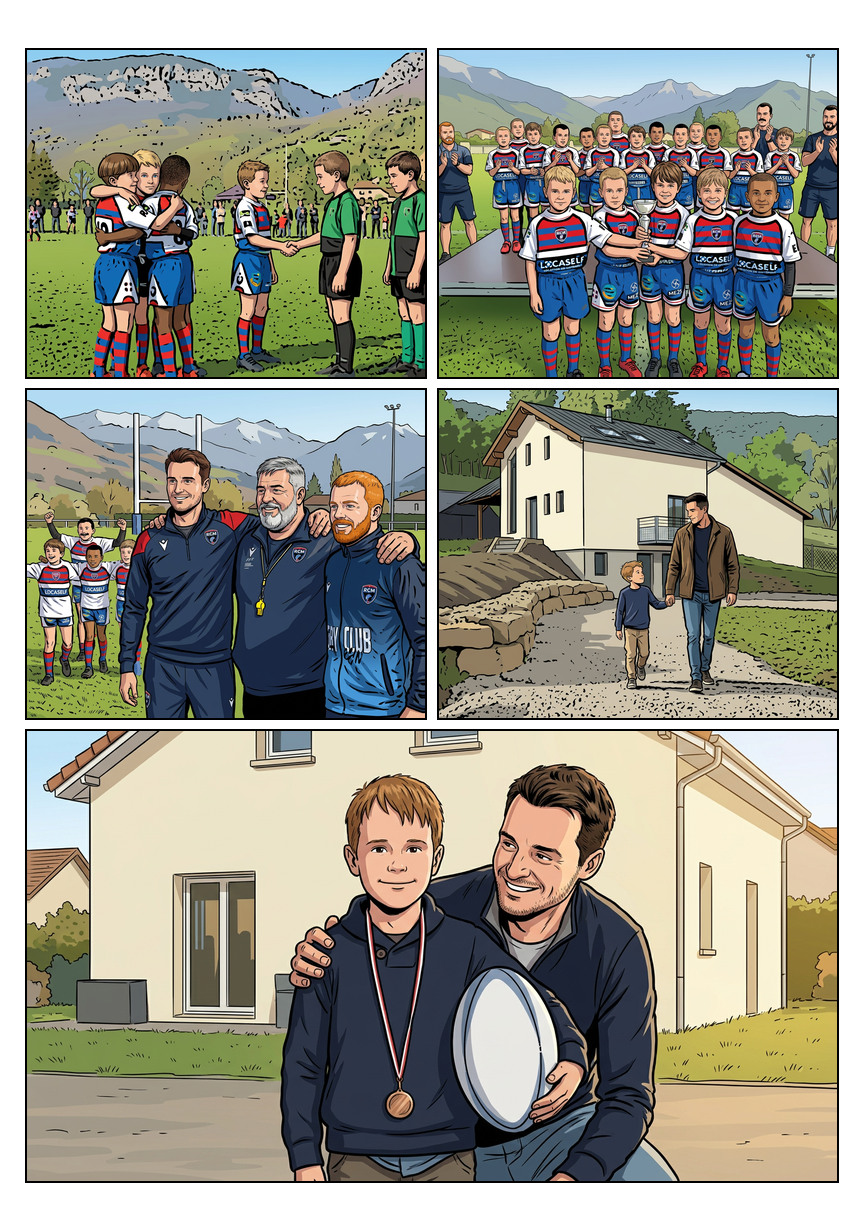
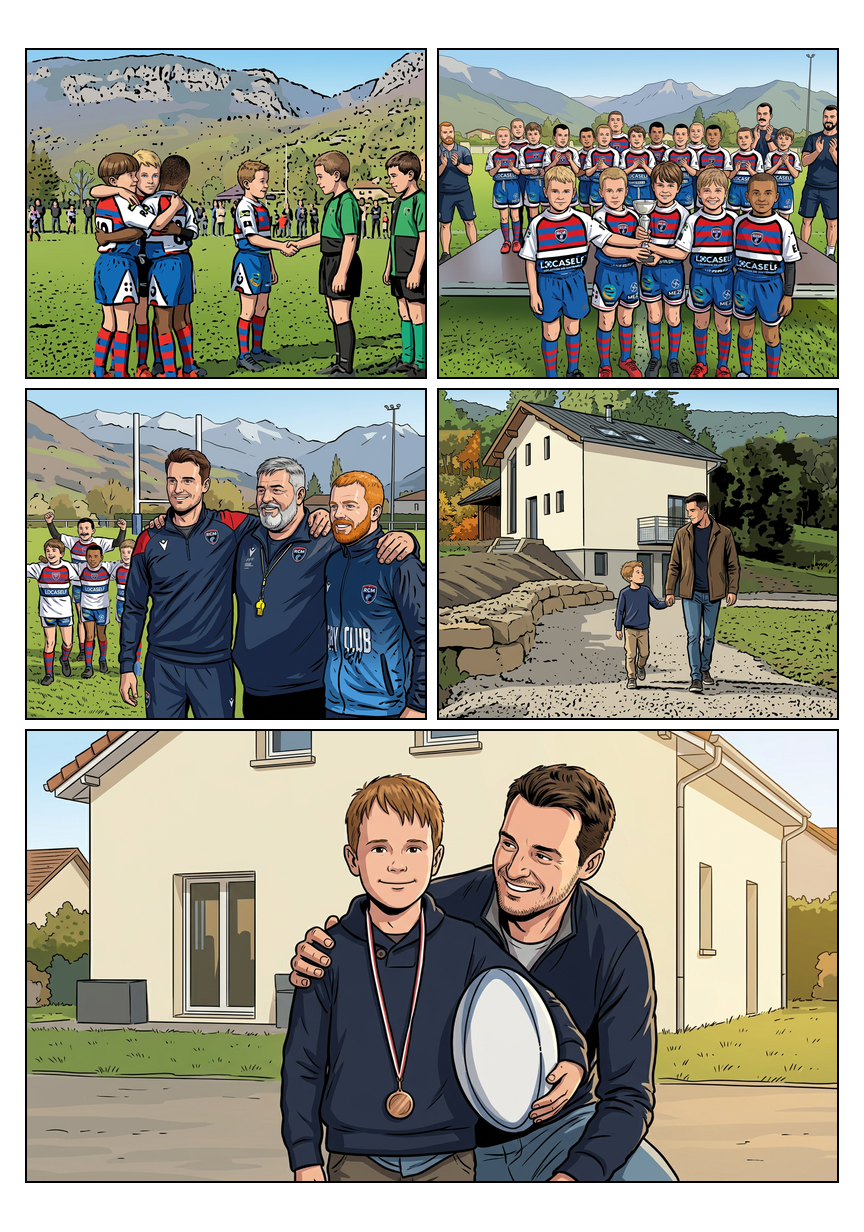
Correct invented house extensions in 30-4 and purple jersey drift in 27-3

Changed region(s): [[0.8125, 0.3393, 0.9688, 0.4935], [0.5, 0.3393, 0.5938, 0.4627]]

diff --git a/outils/retouche/verifier_audit5_23_30.py b/outils/retouche/verifier_audit5_23_30.py
@@ -1,0 +1,90 @@
+#!/usr/bin/env python3
+"""Localité/protections de l'audit 5 ; pas une certification artistique."""
+from io import BytesIO
+from pathlib import Path
+import hashlib
+import json
+import subprocess
+from PIL import Image, ImageChops
+
+ROOT = Path(__file__).resolve().parents[2]
+
+
+def previous(ref, path):
+    raw = subprocess.check_output(
+        ['git', 'show', f'{ref}:{path.relative_to(ROOT).as_posix()}'], cwd=ROOT)
+    return Image.open(BytesIO(raw)).convert('RGB')
+
+
+def main():
+    plan = json.loads((ROOT / 'Planches-dessin/validation/AUDIT5-23-30.json').read_text())
+    assert {(c['page'], c['vignette']) for c in plan['corrections']} == {(27, '27-3'), (30, '30-4')}
+    for n in range(31):
+        path = next((ROOT / 'Planches-dessin').glob(f'{n:02}-*.png'))
+        old, new = previous(plan['base'], path), Image.open(path).convert('RGB')
+        assert old.size == new.size, f'Dimensions : {n}'
+        changes = [c for c in plan['corrections'] if c['page'] == n]
+        diff = ImageChops.difference(old, new)
+        assert bool(diff.getbbox()) == bool(changes), f'Présence de retouche : {n}'
+        for c in changes:
+            box = tuple(c['rectangle'])
+            local = diff.crop(box)
+            mask = Image.open(ROOT / c['masque']).convert('L')
+            protected = Image.open(ROOT / c['protege']).convert('L')
+            assert mask.size == protected.size == local.size
+            assert ImageChops.multiply(mask, protected).getbbox() is None
+            assert Image.composite(local, Image.new('RGB', local.size), protected).getbbox() is None, c['vignette']
+            outside = mask.point(lambda v: 255 if v == 0 else 0)
+            diff.paste(Image.composite(local, Image.new('RGB', local.size), outside), box[:2])
+            if n == 27:
+                before, after = old.crop(box), new.crop(box)
+                # HSV V = max(R,G,B): exact preservation, not a brightness boost.
+                assert ImageChops.difference(before.convert('HSV').getchannel('V'), after.convert('HSV').getchannel('V')).getbbox() is None
+                regions = Image.open(ROOT / c['regions']).convert('L')
+                assert ImageChops.subtract(mask, regions).getbbox() is None
+                folder = (ROOT / c['masque']).parent
+                red = Image.open(folder / '27-3-rouge.png').convert('L')
+                blue = Image.open(folder / '27-3-bleu.png').convert('L')
+                assert ImageChops.lighter(red, blue).tobytes() == mask.tobytes()
+                assert red.histogram()[255] == c['pixels_rouges'] > 0
+                assert blue.histogram()[255] == c['pixels_bleus'] > 0
+                hue = after.convert('HSV').getchannel('H')
+                bad_red = hue.point(lambda h: 255 if 2 < h < 249 else 0)
+                bad_blue = hue.point(lambda h: 255 if not 151 <= h <= 160 else 0)
+                assert ImageChops.multiply(red, bad_red).getbbox() is None
+                assert ImageChops.multiply(blue, bad_blue).getbbox() is None
+                # Face boxes are independent of the authored clothing color mask.
+                for face in [(198,156,211,169), (231,171,243,189), (287,170,300,184), (342,169,357,185)]:
+                    assert ImageChops.difference(before.crop(face), after.crop(face)).getbbox() is None
+                saturation = before.convert('HSV').getchannel('S')
+                whites = saturation.point(lambda v: 255 if v <= 90 else 0)
+                assert Image.composite(local, Image.new('RGB', local.size), whites).getbbox() is None
+            if n == 30:
+                before, after = old.crop(box), new.crop(box)
+                for keep in plan['protections_rectangles_locaux'] + [[244,102,270,139]]:
+                    assert ImageChops.difference(before.crop(tuple(keep)), after.crop(tuple(keep))).getbbox() is None, keep
+        assert diff.getbbox() is None, f'Changement hors zones/masques : {n}'
+        if not changes:
+            data = subprocess.check_output(
+                ['git', 'show', f'{plan["base"]}:{path.relative_to(ROOT).as_posix()}'], cwd=ROOT)
+            assert data == path.read_bytes(), f'Fichier non concerné réécrit : {n}'
+        print(f'OK {n:02} : dimensions, localité, protections, autres fichiers inchangés')
+    for e in plan['fichiers_apres']:
+        raw = (ROOT / e['fichier']).read_bytes()
+        assert len(raw) == e['octets'] and hashlib.sha256(raw).hexdigest() == e['sha256']
+        with Image.open(BytesIO(raw)) as im:
+            assert im.format == 'PNG' and list(im.size) == e['dimensions']
+            im.verify()
+    for g in plan['geometrie']:
+        w, h = g['native']
+        rw, rh = g['contenu']
+        assert abs(rw/w - rh/h) <= 1/min(w, h), g
+        x, y, tw, th = g['cadrage']
+        assert 0 <= x <= rw-tw and 0 <= y <= rh-th
+    print('OK : inventaire, géométrie uniforme, couleurs à V constant, visages et éléments conservés')
+    print('Réserves actuelles : ' + '; '.join(plan['a_reprendre']))
+    print('Pas de certification automatique des identités, de l’architecture ou du style.')
+
+
+if __name__ == '__main__':
+    main()

diff --git a/outils/retouche/verifier_audit4_23_30.py b/outils/retouche/verifier_audit4_23_30.py
@@ -5,6 +5,7 @@ from pathlib import Path
 import hashlib
 import json
 import subprocess
+import sys
 from PIL import Image, ImageChops
 
 ROOT = Path(__file__).resolve().parents[2]
@@ -18,11 +19,17 @@ def previous(ref, path):
 
 def main():
     plan = json.loads((ROOT / 'Planches-dessin/validation/AUDIT4-23-30.json').read_text())
+    fifth = ROOT / 'Planches-dessin/validation/AUDIT5-23-30.json'
+    historical = json.loads(fifth.read_text())['base'] if fifth.exists() else None
+    def delivered(path):
+        return previous(historical, path) if historical else Image.open(path).convert('RGB')
+    if historical:
+        print(f'Vérification historique quatrième passe : {historical}')
     assert [c['vignette'] for c in plan['corrections']] == ['24-5', '24-2']
     assert {c['page'] for c in plan['corrections']} == {24}
     for n in range(31):
         path = next((ROOT / 'Planches-dessin').glob(f'{n:02}-*.png'))
-        old, new = previous(plan['base'], path), Image.open(path).convert('RGB')
+        old, new = previous(plan['base'], path), delivered(path)
         assert old.size == new.size, f'Dimensions : {n}'
         changes = [c for c in plan['corrections'] if c['page'] == n]
         diff = ImageChops.difference(old, new)
@@ -41,10 +48,11 @@ def main():
         if not changes:
             data = subprocess.check_output(
                 ['git', 'show', f'{plan["base"]}:{path.relative_to(ROOT).as_posix()}'], cwd=ROOT)
-            assert data == path.read_bytes(), f'Fichier non concerné réécrit : {n}'
+            actual = subprocess.check_output(['git', 'show', f'{historical}:{path.relative_to(ROOT).as_posix()}'], cwd=ROOT) if historical else path.read_bytes()
+            assert data == actual, f'Fichier non concerné réécrit : {n}'
         print(f'OK {n:02} : dimensions, zones, protections et fichiers non concernés')
     for e in plan['fichiers_apres']:
-        data = (ROOT / e['fichier']).read_bytes()
+        data = subprocess.check_output(['git', 'show', f"{historical}:{e['fichier']}"], cwd=ROOT) if historical else (ROOT / e['fichier']).read_bytes()
         assert len(data) == e['octets'] and hashlib.sha256(data).hexdigest() == e['sha256']
         with Image.open(BytesIO(data)) as im:
             assert im.format == 'PNG' and list(im.size) == e['dimensions']
@@ -57,7 +65,7 @@ def main():
         assert 0 <= x <= rw-tw and 0 <= y <= rh-th
     path = next((ROOT / 'Planches-dessin').glob('24-*.png'))
     old = previous(plan['base'], path)
-    new = Image.open(path).convert('RGB')
+    new = delivered(path)
     # The upper scenery of 24/5 is deliberately not regenerated this time.
     box = (439, 836, 837, 1036)
     assert ImageChops.difference(old.crop(box), new.crop(box)).getbbox() is None
@@ -72,8 +80,11 @@ def main():
     local = ImageChops.difference(before, new.crop(box))
     assert Image.composite(local, Image.new('RGB', local.size), pale).getbbox() is None
     print('OK : inventaire, échelles uniformes, fond haut 24/5 et pixels clairs du chemin conservés')
-    print('Réserves actuelles : ' + '; '.join(plan['a_reprendre']))
+    print(('Réserves historiques de cette passe : ' if historical else 'Réserves actuelles : ') + '; '.join(plan['a_reprendre']))
     print('Ces tests ne certifient ni identité, ni anatomie, ni homogénéité graphique intégrale.')
+    if historical:
+        sys.stdout.flush()
+        subprocess.run([sys.executable, str(ROOT / 'outils/retouche/verifier_audit5_23_30.py')], check=True)
 
 
 if __name__ == '__main__':

diff --git a/outils/retouche/verifier_lot23_30.py b/outils/retouche/verifier_lot23_30.py
@@ -15,10 +15,10 @@ def main():
     assert [e['planche'] for e in report['fichiers']] == list(range(23, 31))
     # The initial manifest remains a historical inventory. After a local audit,
     # use its current delivery hashes rather than the superseded batch hashes.
-    audit4 = ROOT / 'Planches-dessin/validation/AUDIT4-23-30.json'
-    audit3 = ROOT / 'Planches-dessin/validation/AUDIT3-23-30.json'
-    audit2 = ROOT / 'Planches-dessin/validation/AUDIT2-23-30.json'
-    audit = audit4 if audit4.exists() else audit3 if audit3.exists() else audit2 if audit2.exists() else ROOT / 'Planches-dessin/validation/audit-23-30.json'
+    candidates = [ROOT / 'Planches-dessin/validation' / name for name in (
+        'AUDIT5-23-30.json', 'AUDIT4-23-30.json', 'AUDIT3-23-30.json',
+        'AUDIT2-23-30.json', 'audit-23-30.json')]
+    audit = next((path for path in candidates if path.exists()), candidates[-1])
     entries = json.loads(audit.read_text())['fichiers_apres'] if audit.exists() else report['fichiers']
     for entry in entries:
         data = (ROOT / entry['fichier']).read_bytes()

diff --git a/Planches-dessin/validation/AUDIT5-23-30.md b/Planches-dessin/validation/AUDIT5-23-30.md
@@ -1,0 +1,65 @@
+# Audit 23–30 — cinquième passe locale
+
+Base : `c2d5b46`. Contenu comparé aux originaux `e0416a5`. Référence graphique inchangée : témoin V2 approuvé, extraits sans visage déjà conservés dans `corrections-vignettes/audit23b/`.
+
+**Deux cases corrigées sur deux pages : 27/3 et 30/4. Les fichiers principaux 00–26, 28 et 29 restent identiques octet pour octet. Les autres cases de 27 et 30 sont conservées. Pas de validation globale de la BD.**
+
+## 30/4 — corriger l'emprise des constructions, pas refaire les visages
+
+La comparaison rapprochée à l'original précise la réserve architecturale des passes précédentes :
+
+1. La façade principale à pignon gauche et ses ouvertures étaient déjà proches de la source. Elle est conservée, plutôt que relancée intégralement.
+2. Une **grande extension basse à droite**, avec toiture descendante et mur blanc, avait été inventée. Elle n'existe pas dans l'original : **elle est retirée**, au profit du fond boisé et de la berge visible à cet endroit.
+3. Le **petit appentis de gauche** avait été agrandi en un long bâtiment gris allant jusqu'au bord de la case. Il est ramené à une petite toiture inclinée avec paroi de bois, d'après un recadrage de l'original.
+
+Deux propositions générées sont utilisées uniquement dans ces zones. Les nouveaux personnages, la nouvelle façade principale et le nouveau chemin de la proposition complète ne sont pas intégrés.
+
+### Protections du montage
+
+- Personnages existants protégés : pas de nouvelle tête, de nouveaux vêtements ou de nouveau geste de la main.
+- Façade principale, ouvertures et grande partie de la toiture conservées pixel à pixel ; bord du surplomb protégé séparément pour ne pas emporter la toiture correcte avec l'extension inventée.
+- Enfant entièrement hors des zones modifiées, visage du père conservé ; terrain, muret et chemin du bas de la case inchangés.
+- Les pixels du nouveau père qui dépasseraient de l'ancienne silhouette sont exclus de l'échantillonnage du décor. Une couleur de feuillage dessiné voisine est utilisée à leur place, sans importer de nouveau morceau de veste ni de bras.
+- Raccords limités au voisinage des constructions corrigées, sans étirement indépendant des axes.
+
+**L'écart volumétrique manifeste est corrigé.** Cela ne certifie pas chaque proportion, ouverture, tuile, branche ou détail de l'original. Le fond boisé est une restitution dessinée, pas une copie feuille par feuille.
+
+[Source / avant / après de la maison](AUDIT5-23-30-AVANT-APRES.jpg).
+
+## 27/3 — tenues violettes au lieu du rouge et bleu
+
+Le contrôle de la cérémonie sur le fichier source natif confirme des tenues RCM rouge/bleu/blanc. Dans la version dessinée, la poitrine de quatre enfants visibles — l'enfant debout derrière et les trois coureurs — avait dérivé vers le violet/prune ; certaines plages bleues tiraient aussi vers le violet.
+
+Correction **déterministe de teinte uniquement**, par zones de vêtements et seuils de couleur :
+
+- plages violettes de poitrine ramenées au rouge ;
+- plages bleues violacées ramenées au bleu ;
+- valeur HSV **V = max(R,G,B)** conservée exactement : pas de relumage global ;
+- parties blanches, pixels hors masques, visages, cheveux, silhouettes, poses, accessoires et décor conservés.
+
+Aucune génération de personnage ni nouvelle interprétation du motif. Les petits logos/lettrages restent ceux de la case existante ; ils ne sont pas annoncés identiques à la source.
+
+[Source / avant / après des couleurs de 27/3](AUDIT5-27-3-COULEURS.jpg).
+
+Cette correction ne remet pas en cause le contrôle de 28/6 : les manches rouges du troisième garçon y existent réellement dans l'original et restent intactes. Le comptage de 30/2 documenté à la troisième passe est également inchangé.
+
+## Réserves après cette passe
+
+- **30/4 :** la grande extension inventée est supprimée et le petit appentis est réduit ; détails et proportions architecturaux fins ne sont toujours pas certifiés exhaustivement.
+- Régions volontairement protégées de 23–30 : petites textures, raccords et finitions à examiner à grande échelle, sans prétendre qu'une reprise locale valide toute la page.
+- Identités/anatomies fines, petits figurants, logos et lettrages : réserves antérieures non levées en bloc. Aucune nouvelle génération de visage n'est faite pour une différence incertaine.
+
+## Pièces et contrôles
+
+- [Plan, masques, protections, géométrie et empreintes](AUDIT5-23-30.json).
+- Masques de décor, protection des personnages et régions de couleur : `corrections-vignettes/audit23e/`.
+
+```sh
+python outils/retouche/verifier_audit5_23_30.py
+python outils/retouche/verifier_audit23_30.py
+python outils/retouche/verifier_lot23_30.py
+```
+
+Le contrôle actuel vérifie les 31 fichiers principaux, les dimensions, les limites des deux retouches, les protections, les fichiers non concernés identiques, la valeur HSV constante de 27/3, des zones de visages/parties blanches indépendantes des masques d'édition, le bas de 30/4 et les empreintes de livraison. Les audits précédents restent vérifiés à leurs commits historiques, puis la chaîne lance le contrôle courant.
+
+**Les tests démontrent l'intégrité et la localité, pas l'identité des personnes, l'exactitude architecturale intégrale ou la conformité artistique de toute la BD.**

diff --git a/Planches-dessin/SUIVI-STYLE.md b/Planches-dessin/SUIVI-STYLE.md
@@ -225,3 +225,14 @@ Base `0532a10`. **Seule la page 24 est modifiée** ; 00–23 et 25–30 restent 
 Deux générations utilisées par masques, même témoin V2, échelle uniforme. Rapport courant : `validation/AUDIT4-23-30.md`, inventaire `AUDIT4-23-30.json`. Comparatif : `AUDIT4-23-30-AVANT-APRES.jpg` ; détail vérifié : `AUDIT4-28-6-MANCHES.jpg`. Vérificateur : `outils/retouche/verifier_audit4_23_30.py` ; chaîne des audits historiques et inventaire du lot actualisés.
 
 **Restent ouverts : architecture/proportions de 30/4, finitions des régions protégées, identités/anatomies fines, petits figurants et marquages. La reprise des deux décors n'est pas une validation globale de la BD.**
+
+## Cinquième passe 23–30 — emprise de maison et couleurs de cérémonie
+
+Base `c2d5b46`. **Pages 27 et 30 modifiées uniquement en 27/3 et 30/4**. Autres cases et fichiers principaux inchangés.
+
+- **30/4 :** grande extension droite inventée supprimée, fond boisé rétabli ; petit appentis gauche réduit d'après le recadrage source. Façade principale, personnages, enfant, visages, terrain bas, chemin et muret existants conservés par masques. Deux générations utilisées localement, pas de relance intégrale de la case ni des personnages.
+- **27/3 :** dérive violette de quatre tenues RCM corrigée en rouge/bleu par traitement de teinte local. Valeur HSV V conservée exactement, parties blanches et régions de visages contrôlées. Aucune génération ni changement de silhouette, de personne ou de décor.
+
+L'écart volumétrique manifeste de 30/4 est corrigé ; les détails/proportions architecturaux fins restent réservés, comme les finitions des régions protégées, les ressemblances/anatomies, petits figurants et marquages. **Pas de validation globale.** Les manches rouges authentiques de 28/6 et le groupe de 30/2 ne sont pas modifiés.
+
+Rapport courant : `validation/AUDIT5-23-30.md` ; inventaire `AUDIT5-23-30.json`. Preuves : `AUDIT5-23-30-AVANT-APRES.jpg` et `AUDIT5-27-3-COULEURS.jpg`. Vérificateur courant : `outils/retouche/verifier_audit5_23_30.py`, intégré à la chaîne historique ; inventaire du lot actualisé sans effacer les anciens états.

diff --git a/Planches-dessin/validation/AUDIT4-23-30.md b/Planches-dessin/validation/AUDIT4-23-30.md
@@ -55,3 +55,7 @@ python outils/retouche/verifier_lot23_30.py
 Le contrôle actuel vérifie les 31 pages principales, les modifications uniquement dans les deux masques de 24, les régions protégées, les autres fichiers inchangés, les géométries et les empreintes. Un contrôle indépendant du masque d'édition confirme aussi la conservation des pixels clairs du chemin de 24/5 et du fond haut de cette case. Le contrôle chaîné vérifie les passes précédentes à leurs commits historiques, puis la passe actuelle.
 
 **Ces tests prouvent l'intégrité et la localité, pas la ressemblance, l'anatomie ou l'homogénéité artistique intégrale.**
+
+## Suite de cet état historique
+
+La [cinquième passe](AUDIT5-23-30.md), basée sur `c2d5b46`, précise et corrige la réserve de volume de la maison de 30/4 ainsi qu'une dérive de couleur en 27/3. Le vérificateur de cette quatrième passe contrôle désormais son résultat historique avant de lancer le contrôle courant ; les conclusions ci-dessus restent celles de la quatrième passe.
